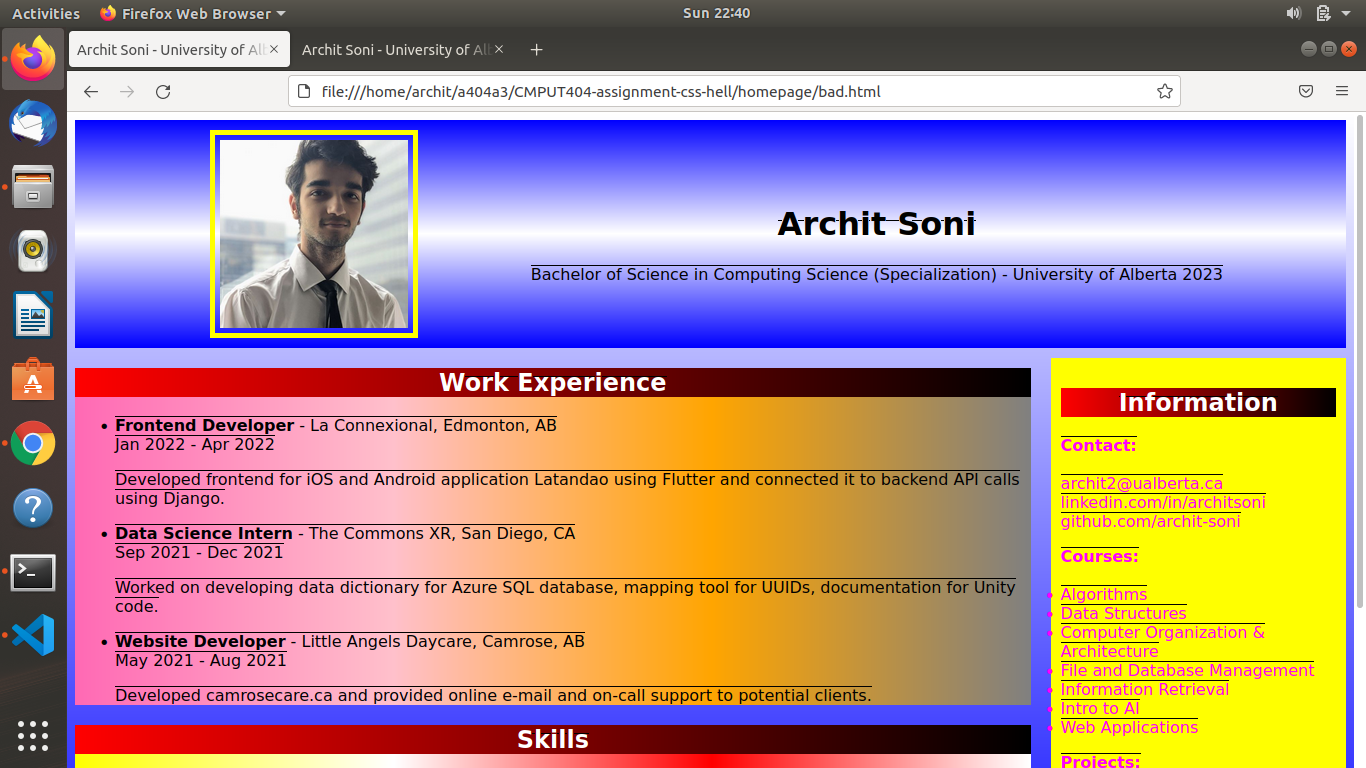
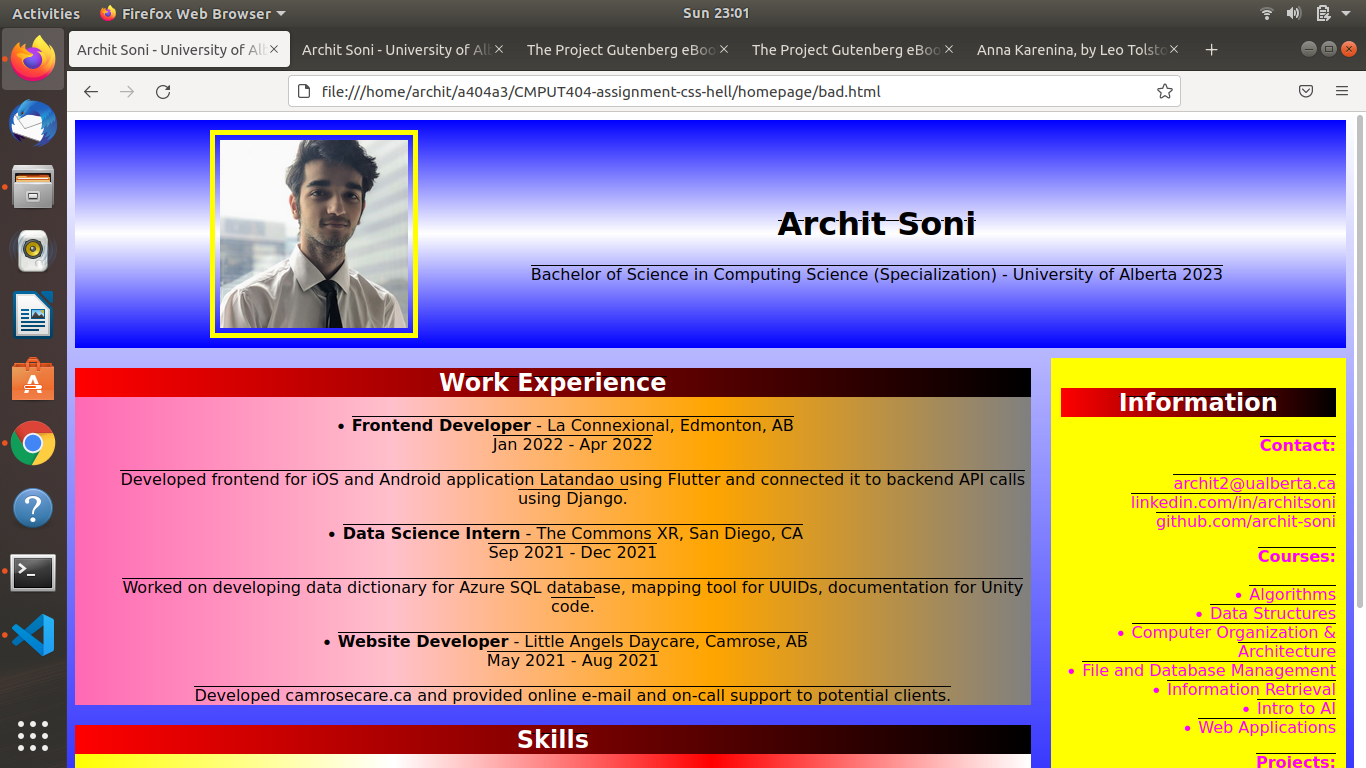
license

diff --git a/homepage/bad.css b/homepage/bad.css
@@ -48,12 +48,14 @@ h2{
     padding: 10px;
     background-color: yellow;
     color: magenta;
+    text-align: right;
 }
 .list{
     margin-left: 50px;
 }
 .exp{
     background-image: linear-gradient(to right, hotpink, pink,orange, grey);
+    text-align: center;
 }
 .skills{
     background-image: linear-gradient(to right, yellow, white, red, white);

diff --git a/README.md b/README.md
@@ -19,6 +19,10 @@ Textual content is copyright Abram Hindle (C) 2013 under the CC-BY-SA
 4.0 unported license. Attribution should be a hyperlink to the
 repository and (C) 2013 Abram Hindle visibile in the text.
 
+Textual content is copyright Archit Soni (C) 2022 under the CC-BY-SA
+4.0 unported license. Attribution should be a hyperlink to the
+repository and (C) 2022 Archit Soni visibile in the text.
+
 Code is licensed under the Apache 2.0 license.
 
 Changes to Gutenberg

diff --git a/gutenberg/README.md b/gutenberg/README.md
@@ -1,0 +1,16 @@
+Changes to Gutenberg
+=================
+
+pre font-style: italic;
+
+body background-color: #ebeb55d7;
+
+p font-family: Georgia, serif;
+
+h1 border: double; background-color: yellow;
+
+h2 text-decoration: underline; border: groove; background-color: rgb(8, 255, 8);
+
+h3 text-decoration: underline; background-color: white;
+
+img border-radius: 15%; border: solid 4px; padding: 8px; background-color: orange;
